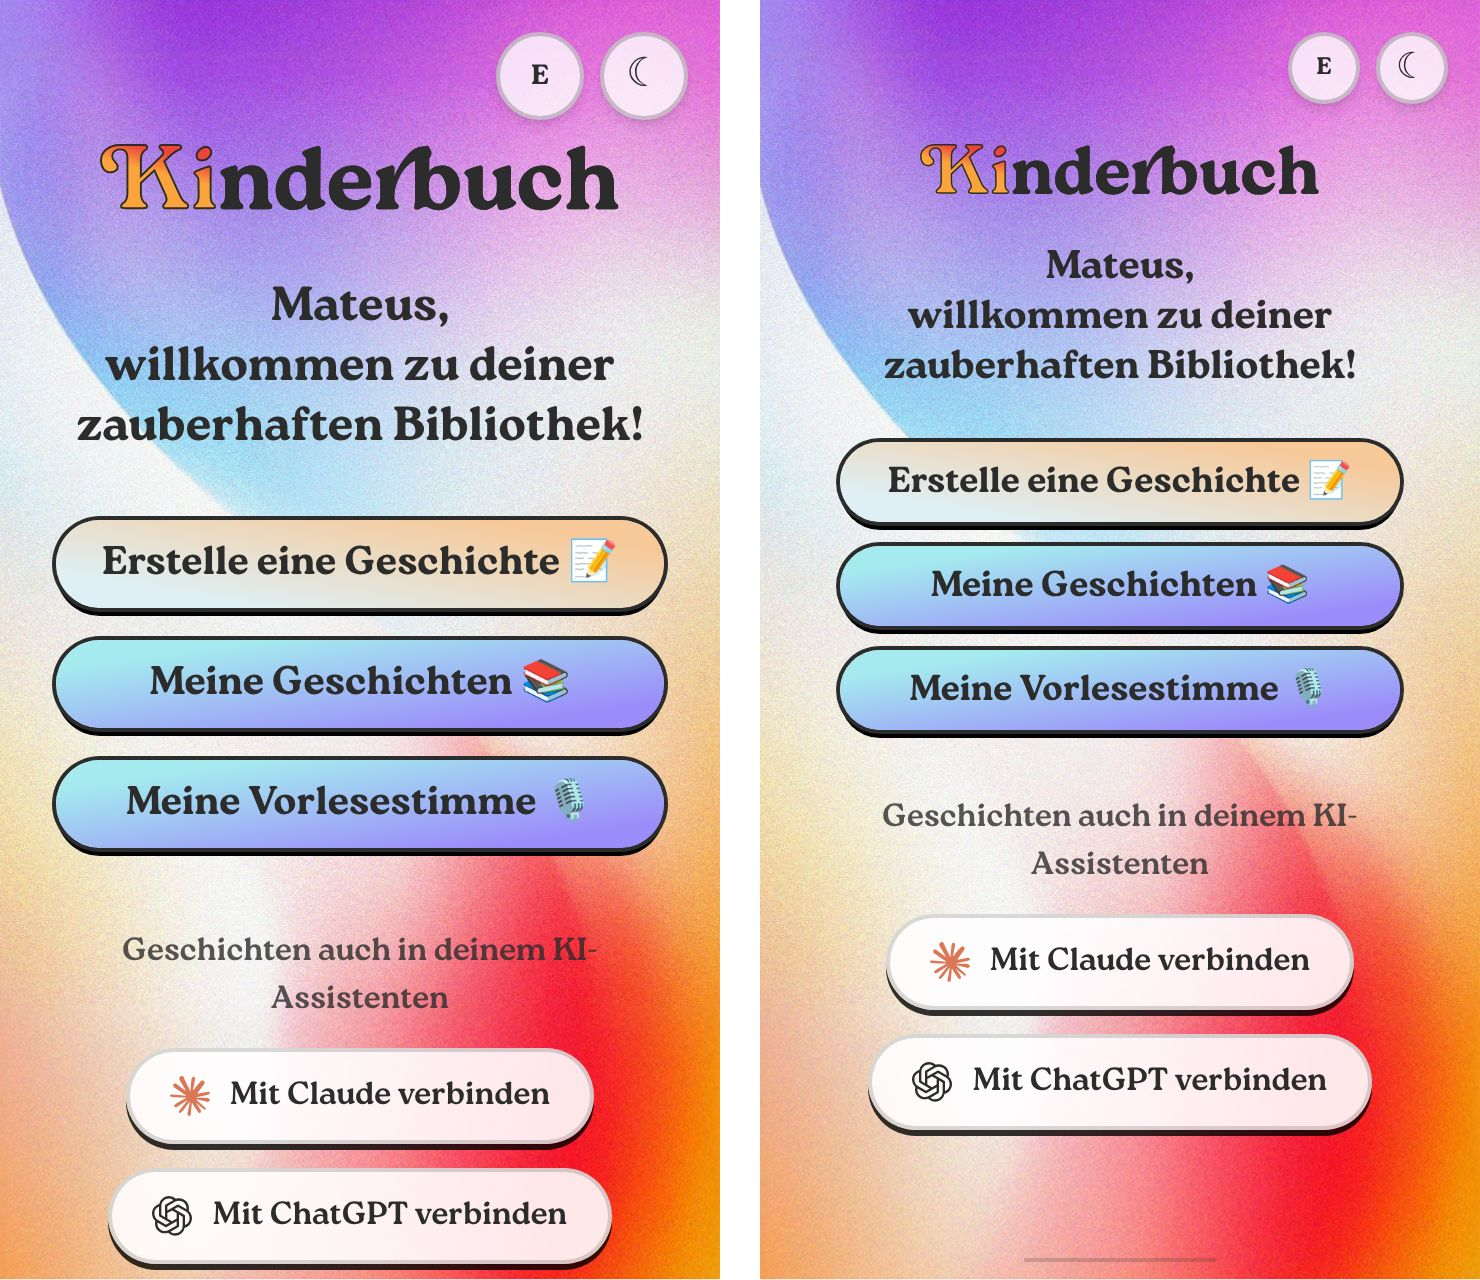
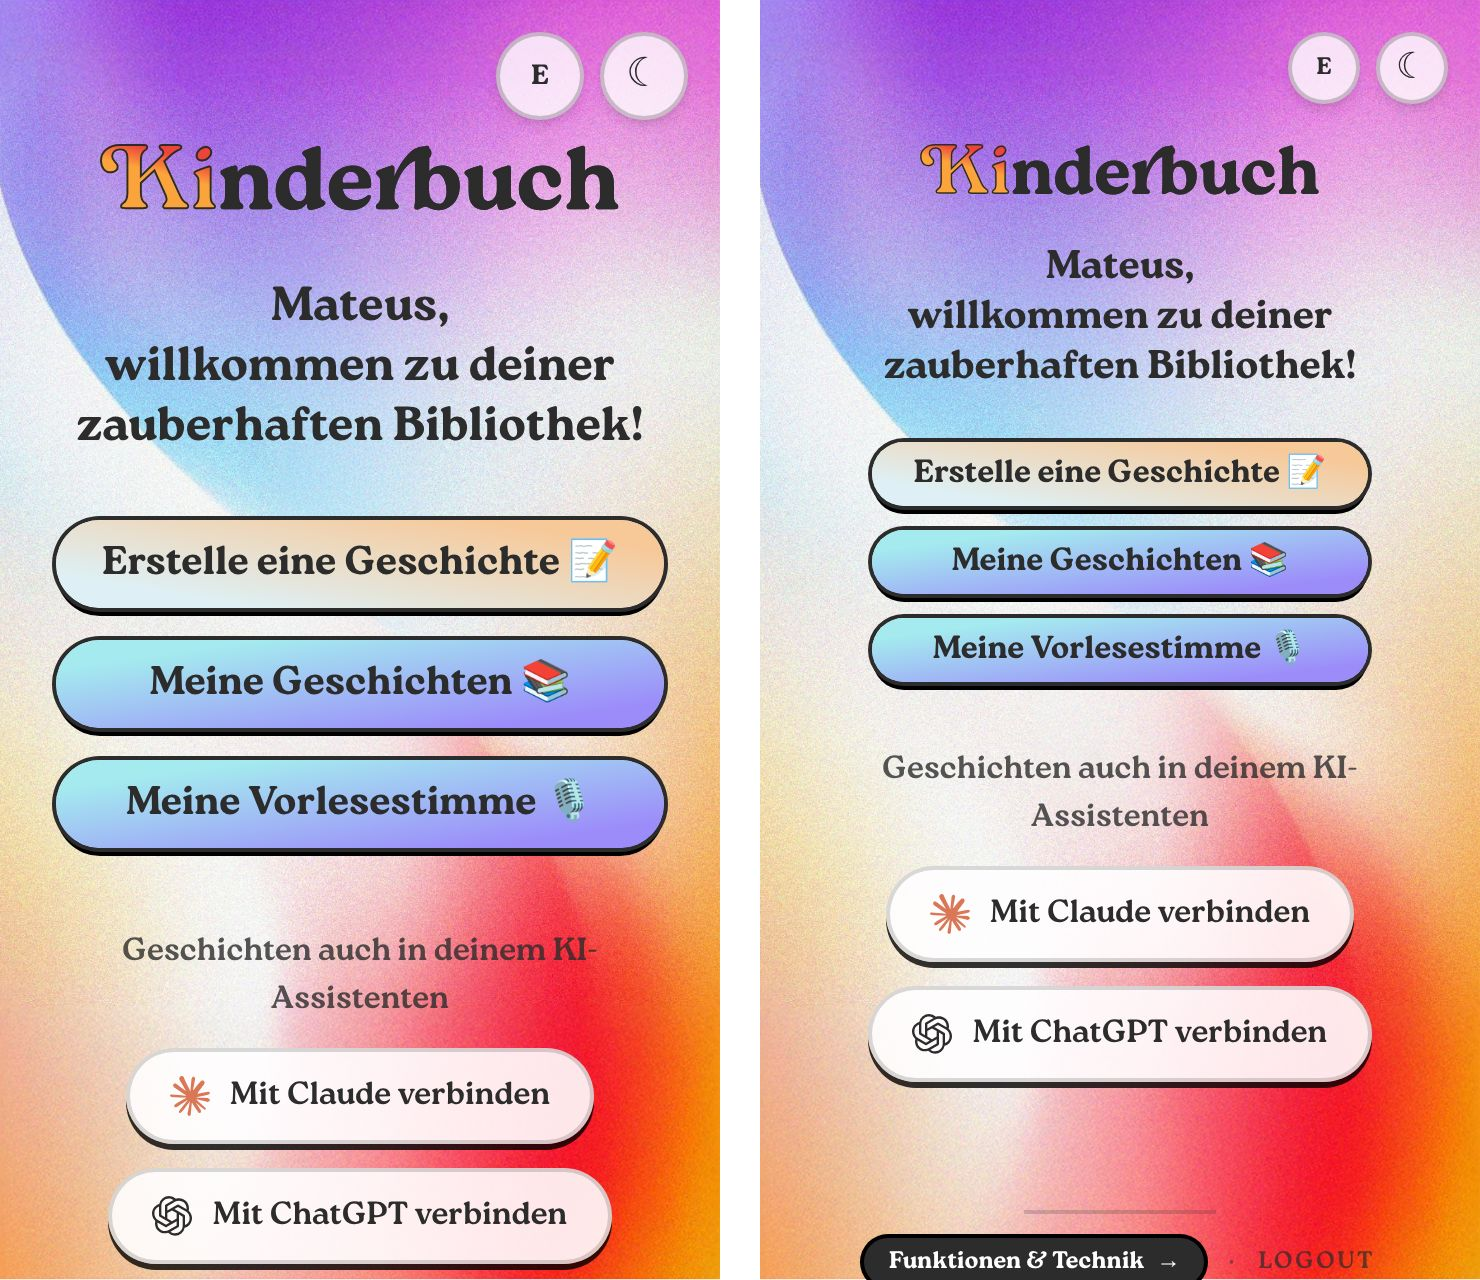
Make buttons smaller across the app
Button base is now text-base/py-1 on phones and text-lg/py-1.5 from sm up
(was text-xl/py-2). Landing and dashboard button columns and the features
page buttons are narrower to match.

Claude-Session: https://claude.ai/code/session_01Ggus8y3AG5Dfv1FKC2CRdb

Changed region(s): [[0.5595, 0.3438, 0.9635, 0.9062], [0.5595, 0.9375, 0.9324, 1.0]]

diff --git a/Frontend/app/features/page.js b/Frontend/app/features/page.js
@@ -129,7 +129,7 @@ const card =
   "rounded-3xl border-2 border-black/10 bg-[#fffaf1]/90 p-5 shadow-[0_10px_30px_rgba(61,43,30,0.12)] backdrop-blur-sm night:border-white/10 night:bg-[#221d33]/90 night:shadow-none";
 
 const darkButton =
-  "flex items-center justify-center gap-2 rounded-[1.7rem] bg-[#2c2c2c] px-4 py-2 text-xl text-white shadow-[0_4px_0_0_rgba(0,0,0,1)] ring-2 ring-black transition hover:scale-105 active:scale-95 night:bg-white night:text-[#221d33]";
+  "flex items-center justify-center gap-2 rounded-[1.7rem] bg-[#2c2c2c] px-4 py-1 text-base sm:py-1.5 sm:text-lg text-white shadow-[0_4px_0_0_rgba(0,0,0,1)] ring-2 ring-black transition hover:scale-105 active:scale-95 night:bg-white night:text-[#221d33]";
 
 function SectionTitle({ id, children }) {
   return (
@@ -197,10 +197,10 @@ export default function FeaturesPage() {
               {t("intro")}
             </p>
             <div className="mt-8 flex flex-col items-center justify-center gap-4 font-black sm:flex-row">
-              <Button variant="glow" href="/generate" className="w-64">
+              <Button variant="glow" href="/generate" className="w-56">
                 {t("tryIt")}
               </Button>
-              <a href={REPO_URL} target="_blank" rel="noreferrer" className={`${darkButton} w-64`}>
+              <a href={REPO_URL} target="_blank" rel="noreferrer" className={`${darkButton} w-56`}>
                 <svg viewBox="0 0 24 24" aria-hidden="true" className="h-5 w-5" fill="currentColor">
                   <path d="M12 .5a11.5 11.5 0 0 0-3.64 22.41c.58.1.79-.25.79-.56v-2c-3.2.7-3.88-1.37-3.88-1.37-.52-1.33-1.28-1.69-1.28-1.69-1.05-.71.08-.7.08-.7 1.16.08 1.77 1.19 1.77 1.19 1.03 1.77 2.7 1.26 3.36.96.1-.75.4-1.26.73-1.55-2.55-.29-5.24-1.28-5.24-5.69 0-1.26.45-2.29 1.19-3.1-.12-.29-.52-1.46.11-3.05 0 0 .97-.31 3.17 1.18a11 11 0 0 1 5.77 0c2.2-1.49 3.17-1.18 3.17-1.18.63 1.59.23 2.76.11 3.05.74.81 1.19 1.84 1.19 3.1 0 4.42-2.69 5.39-5.26 5.68.41.36.78 1.06.78 2.14v3.17c0 .31.21.67.8.56A11.5 11.5 0 0 0 12 .5Z" />
                 </svg>
@@ -276,7 +276,7 @@ export default function FeaturesPage() {
           </section>
 
           <div className="mt-16 flex justify-center font-black">
-            <Button variant="glow" href="/generate" className="w-64">
+            <Button variant="glow" href="/generate" className="w-56">
               {t("tryIt")}
             </Button>
           </div>

diff --git a/Frontend/app/page.js b/Frontend/app/page.js
@@ -86,14 +86,14 @@ export default function Home() {
               : "Where dreams become stories"}
           </div>
 
-          <div className="relative z-10 my-6 sm:my-0 w-56 sm:w-60 font-black grid grid-cols-1 gap-3 sm:gap-4 justify-items-center">
-            <Button variant="primary" className="w-56 sm:w-60 whitespace-nowrap" href="/register">
+          <div className="relative z-10 my-6 sm:my-0 w-48 sm:w-52 font-black grid grid-cols-1 gap-3 sm:gap-4 justify-items-center">
+            <Button variant="primary" className="w-48 sm:w-52 whitespace-nowrap" href="/register">
               {isGerman ? "Registrieren" : "Sign up"}
             </Button>
-            <Button variant="secondary" className="w-56 sm:w-60 whitespace-nowrap" href="/login">
+            <Button variant="secondary" className="w-48 sm:w-52 whitespace-nowrap" href="/login">
               {isGerman ? "Login" : "Log in"}
             </Button>
-            <Button variant="glow" className="w-56 sm:w-60 whitespace-nowrap" href="/generate">
+            <Button variant="glow" className="w-48 sm:w-52 whitespace-nowrap" href="/generate">
               {isGerman ? "Experiment starten" : "Start experiment"}
             </Button>
           </div>

diff --git a/Frontend/app/dashboard/page.js b/Frontend/app/dashboard/page.js
@@ -89,7 +89,7 @@ export default function Dashboard() {
               : "welcome to your magical library!"}
           </h1>
 
-          <div className="w-full max-w-[17.5rem] sm:max-w-[19rem] font-black grid grid-cols-1 gap-3 sm:gap-4 mb-8 sm:mb-10">
+          <div className="w-full max-w-[15.5rem] sm:max-w-[17rem] font-black grid grid-cols-1 gap-3 sm:gap-4 mb-8 sm:mb-10">
             <Button variant="primary" className="w-full" href="/generate">
               {isGerman ? "Erstelle eine Geschichte" : "Create a story"} 📝
             </Button>

diff --git a/Frontend/app/components/Button.jsx b/Frontend/app/components/Button.jsx
@@ -29,7 +29,7 @@ export default function Button({
   };
 
   const baseClasses =
-    "px-4 py-1.5 sm:py-2 rounded-[1.7rem] text-lg sm:text-xl shadow-[0_4px_0_0_rgba(0,0,0,1)]";
+    "px-4 py-1 sm:py-1.5 rounded-[1.7rem] text-base sm:text-lg shadow-[0_4px_0_0_rgba(0,0,0,1)]";
   let variantClasses = "";
 
   if (variant === "primary") {
